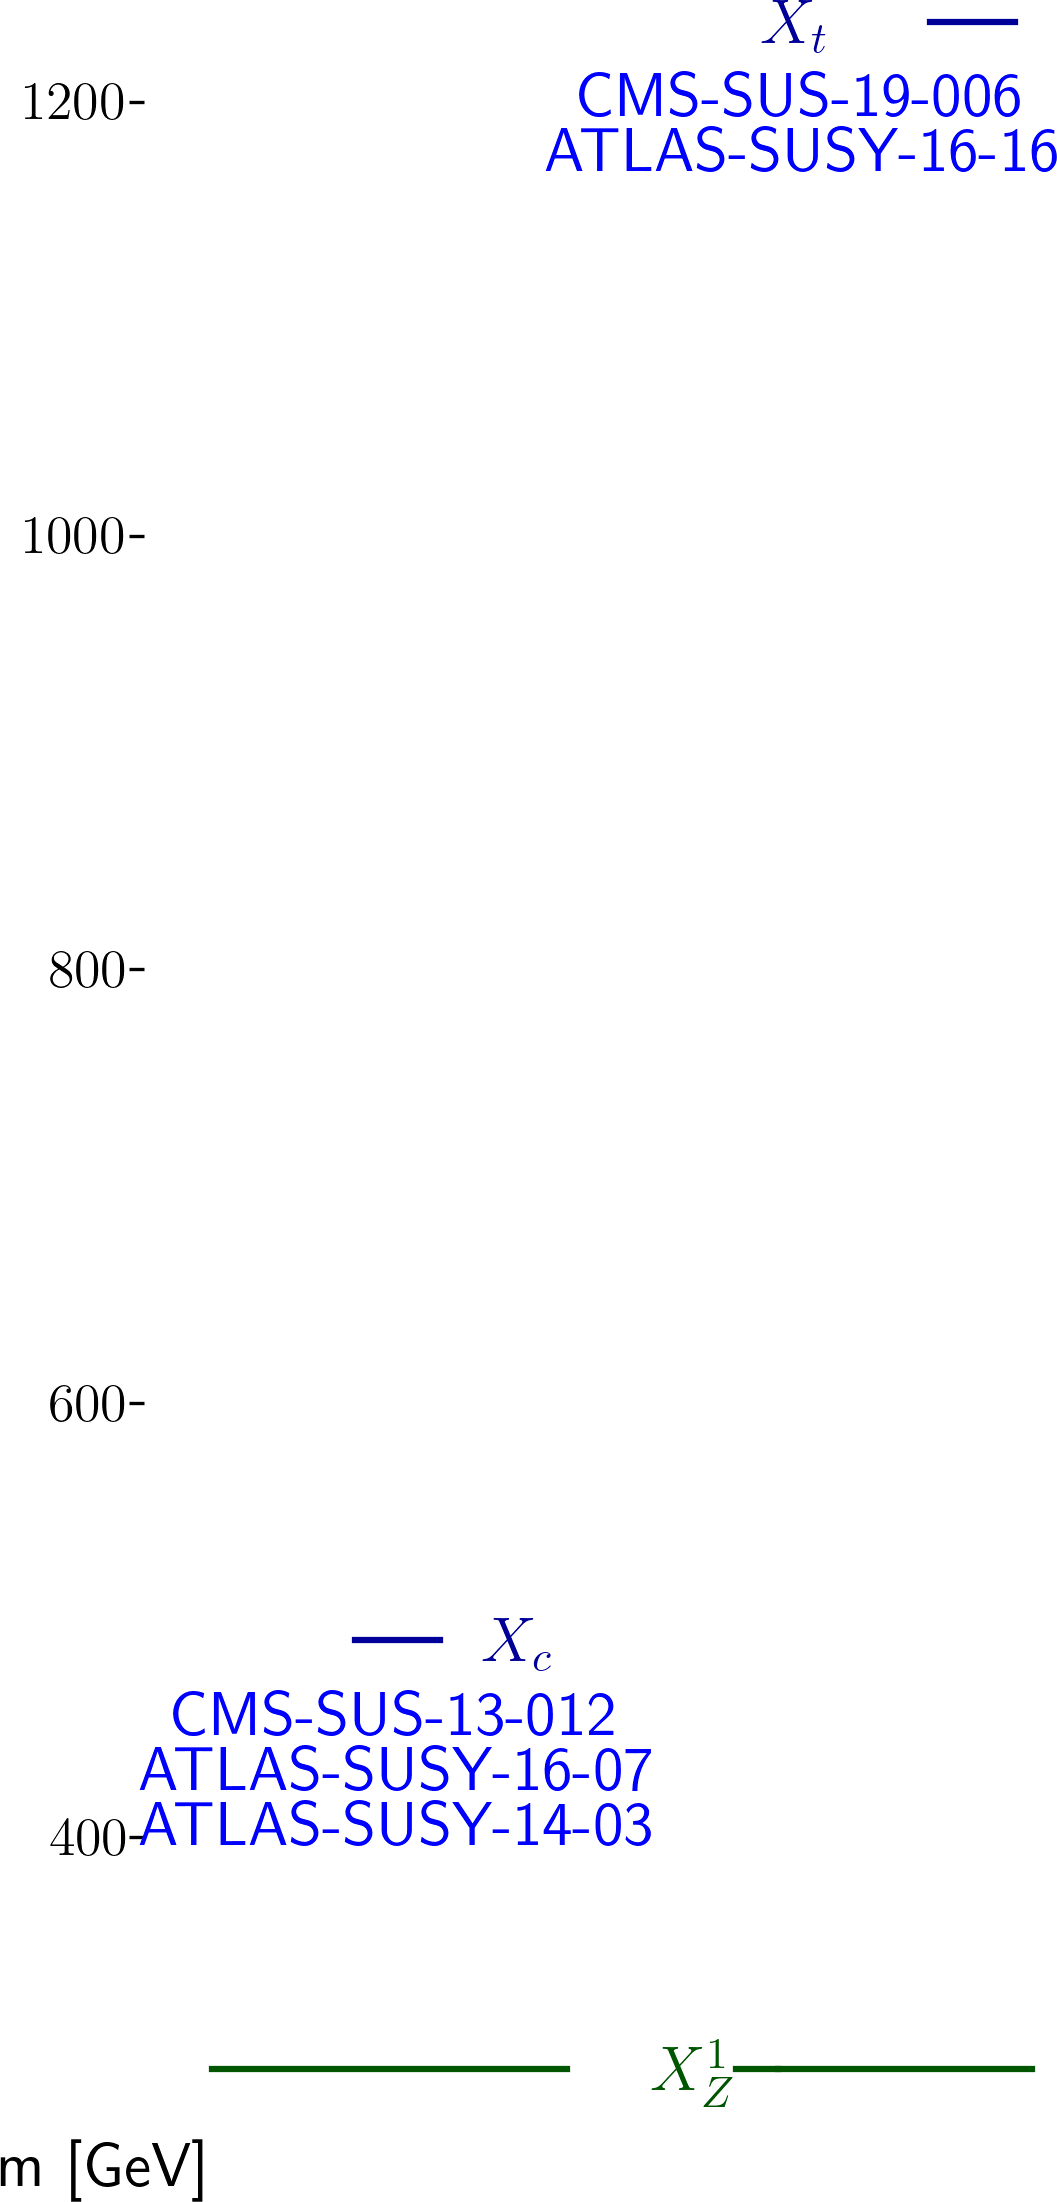
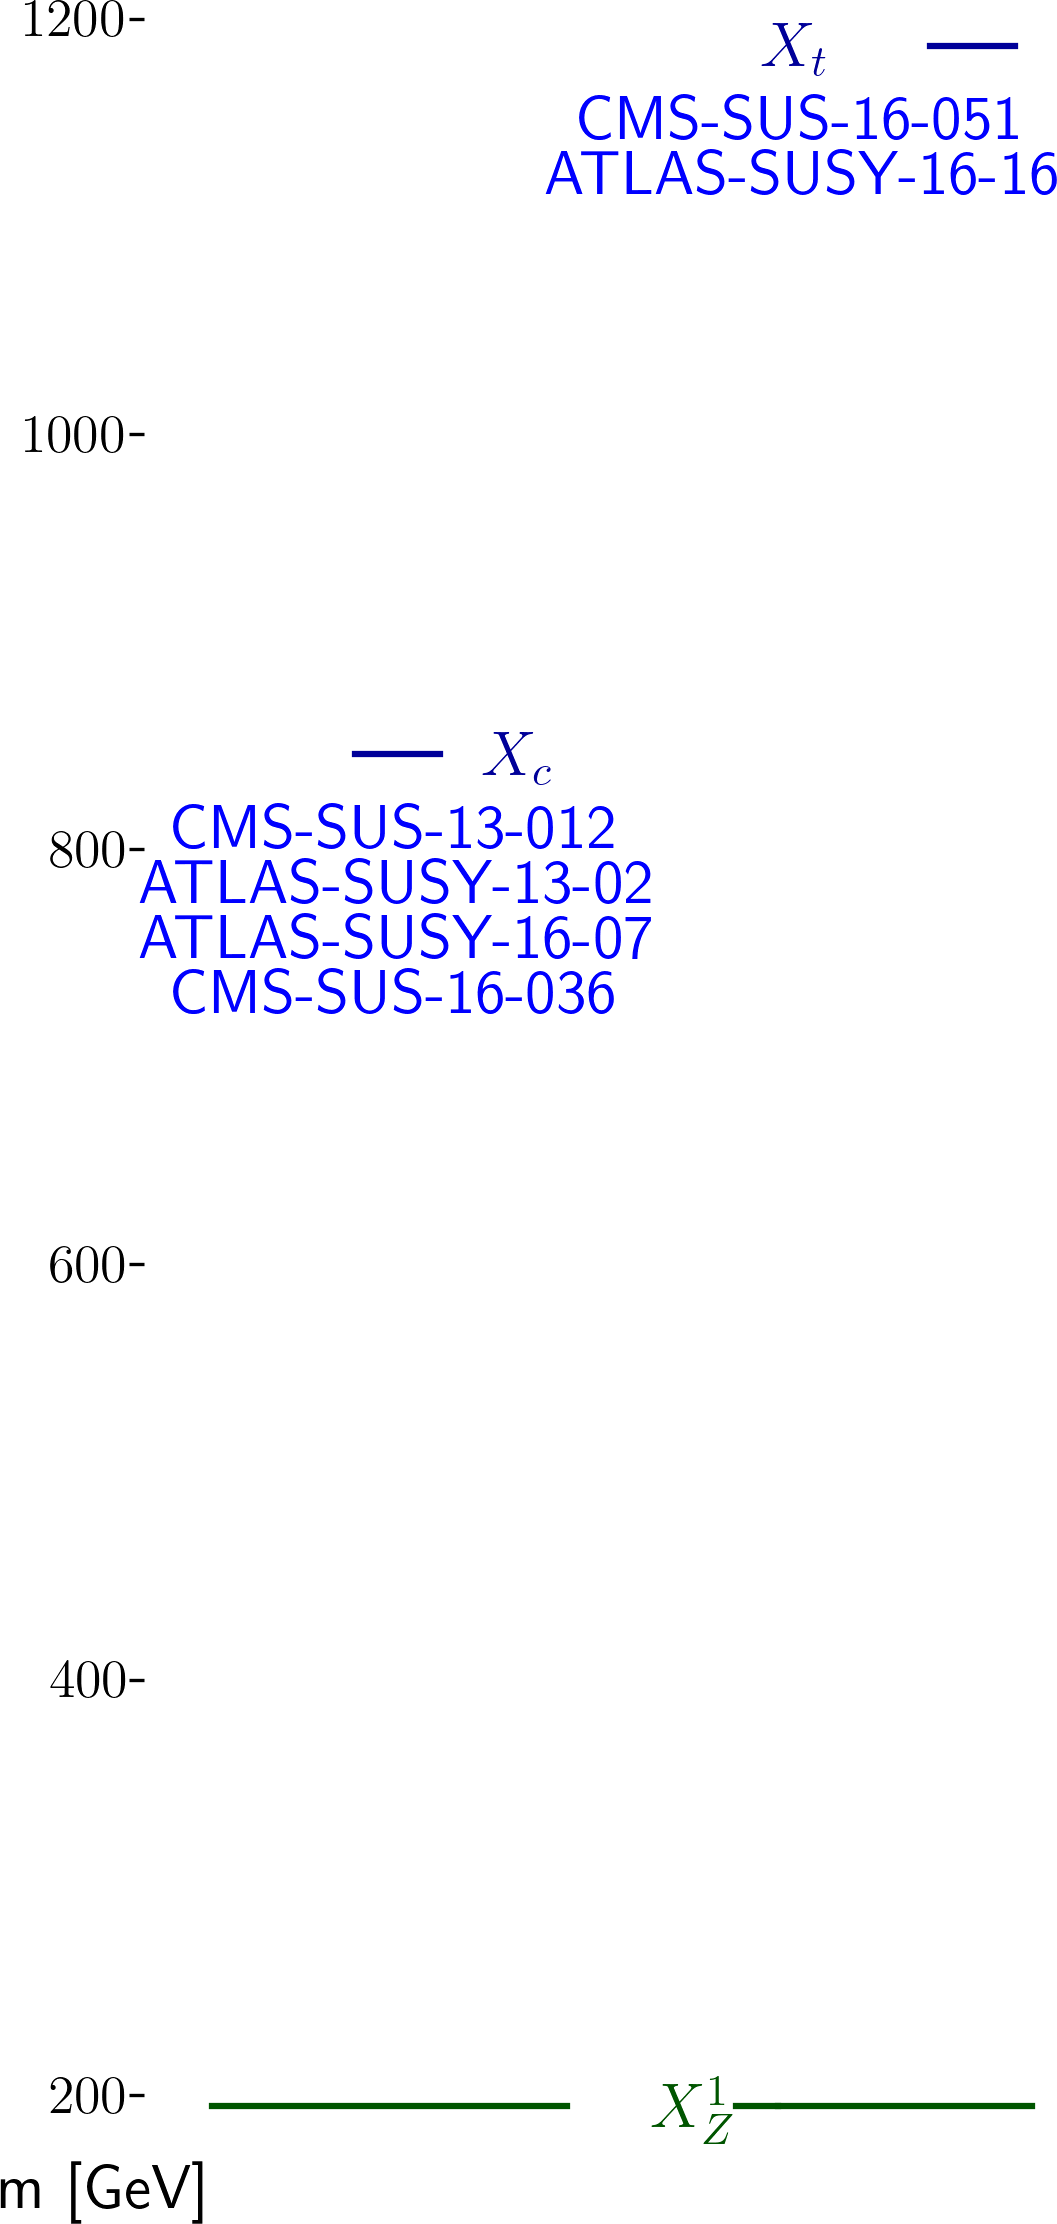
automated update by plotHiscore.py to /scratch-cbe/users/wolfgan.waltenberger/git/smodels.github.io/protomodels

diff --git a/protomodels/2020_PioneerStudy/closure_sampled2/index.html b/protomodels/2020_PioneerStudy/closure_sampled2/index.html
@@ -1,30 +1,31 @@
 <html>
 <body>
 <center>
-<table><td><h1>Current best protomodel: <i>K</i>=7.27</h1><td><img height=60px src=https://smodels.github.io/pics/banner.png></table>
+<table><td><h1>Current best protomodel: <i>K</i>=11.45</h1><td><img height=60px src=https://smodels.github.io/pics/banner.png></table>
 </center>
-<b><a href=./hiscore.slha>ProtoModel</a> <a href=./pmodel.py>(dict)</a> produced with <a href=https://smodels.github.io/docs/Validation124scaled2>database v1.2.4scaled2</a>, combination strategy <a href=./matrix_aggressive.png>aggressive</a> in walker 44 step 383.</b> <i>K</i> plots for: <a href=./M1000022.png?15050013>X<sub>Z</sub><sup>1</sup></a>, <a href=./M1000006.png?15050013>X<sub>t</sub></a>, <a href=./M1000004.png?15050013>X<sub>c</sub></a>. HPD plots for: <a href=./llhd1000006.png?15050013>X<sub>t</sub></a>, <a href=./llhd1000004.png?15050013>X<sub>c</sub></a>. SSM plots for: <a href=./ssm_-1000006_1000006.png?15050013>(x&#772;<sub>t</sub>,X<sub>t</sub>)</a><br>
+<b><a href=./hiscore.slha>ProtoModel</a> <a href=./pmodel.py>(dict)</a> produced with <a href=https://smodels.github.io/docs/Validation124scaled2>database v1.2.4scaled2</a>, combination strategy <a href=./matrix_aggressive.png>aggressive</a> in walker 45 step 942.</b> <i>K</i> plots for: <a href=./M1000022.png?15309353>X<sub>Z</sub><sup>1</sup></a>, <a href=./M1000006.png?15309353>X<sub>t</sub></a>, <a href=./M1000004.png?15309353>X<sub>c</sub></a>. HPD plots for: <a href=./llhd1000006.png?15309353>X<sub>t</sub></a>, <a href=./llhd1000004.png?15309353>X<sub>c</sub></a>. SSM plots for: <a href=./ssm_-1000006_1000006.png?15309353>(x&#772;<sub>t</sub>,X<sub>t</sub>)</a><br>
 <table width=80%>
 <tr><td>
-<br><b>17 predictions available. Highest r values are:</b><br><ul>
-<li><a href=http://cms-results.web.cern.ch/cms-results/public-results/publications/SUS-16-033/index.html>CMS-SUS-16-033</a>:T2 r=1.23, r<sub>exp</sub>=N/A<br>
-<li><a href=https://atlas.web.cern.ch/Atlas/GROUPS/PHYSICS/PAPERS/SUSY-2016-26/>ATLAS-SUSY-2016-26</a>:T2cc r=1.18, r<sub>exp</sub>=N/A<br>
-<li><a href=https://atlas.web.cern.ch/Atlas/GROUPS/PHYSICS/PAPERS/SUSY-2016-07/>ATLAS-SUSY-2016-07</a>:T2 r=1.10, r<sub>exp</sub>=N/A<br>
-<li><a href=http://cms-results.web.cern.ch/cms-results/public-results/publications/SUS-16-036/index.html>CMS-SUS-16-036</a>:T2 r=1.04, r<sub>exp</sub>=N/A<br>
-<li><a href=http://cms-results.web.cern.ch/cms-results/public-results/publications/SUS-16-033/index.html>CMS-SUS-16-033</a>:T2,T2tt r=0.81, r<sub>exp</sub>=N/A<br>
+<br><b>25 predictions available. Highest r values are:</b><br><ul>
+<li><a href=https://atlas.web.cern.ch/Atlas/GROUPS/PHYSICS/PAPERS/SUSY-2016-26/>ATLAS-SUSY-2016-26</a>:T2cc r=1.05, r<sub>exp</sub>=N/A<br>
+<li><a href=http://cms-results.web.cern.ch/cms-results/public-results/publications/SUS-19-006/index.html>CMS-SUS-19-006</a>:T2 r=0.71, r<sub>exp</sub>=N/A<br>
+<li><a href=https://atlas.web.cern.ch/Atlas/GROUPS/PHYSICS/PAPERS/SUSY-2016-07/>ATLAS-SUSY-2016-07</a>:T2 r=0.70, r<sub>exp</sub>=N/A<br>
+<li><a href=http://cms-results.web.cern.ch/cms-results/public-results/publications/SUS-16-033/index.html>CMS-SUS-16-033</a>:T2 r=0.62, r<sub>exp</sub>=N/A<br>
+<li><a href=http://cms-results.web.cern.ch/cms-results/public-results/publications/SUS-16-036/index.html>CMS-SUS-16-036</a>:T2 r=0.61, r<sub>exp</sub>=N/A<br>
 </ul>
 <td><br><b>K values without analyses: (contribution)</b><br>
 <ul>
-<li> <a href=http://cms-results.web.cern.ch/cms-results/public-results/publications/SUS-19-006/index.html>CMS-SUS-19-006</a>: 1.28 (17%)
-<li> <a href=https://twiki.cern.ch/twiki/bin/view/CMSPublic/PhysicsResultsSUS13012>CMS-SUS-13-012</a>: 1.28 (17%)
-<li> <a href=https://atlas.web.cern.ch/Atlas/GROUPS/PHYSICS/PAPERS/SUSY-2016-07/>ATLAS-SUSY-2016-07</a>: 0.14 (21%)
-<li> <a href=https://atlas.web.cern.ch/Atlas/GROUPS/PHYSICS/PAPERS/SUSY-2016-16/>ATLAS-SUSY-2016-16</a>: -0.16 (21%)
-<li> <a href=https://atlas.web.cern.ch/Atlas/GROUPS/PHYSICS/PAPERS/SUSY-2014-03/>ATLAS-SUSY-2014-03</a>: -0.75 (23%)
-<td><img width=600px src=./texdoc.png?1608050013>
-<br><font size=-1>Last updated: Tue Dec 15 17:33:33 2020</font>
+<li> <a href=https://twiki.cern.ch/twiki/bin/view/CMSPublic/PhysicsResultsSUS13012>CMS-SUS-13-012</a>: 4.00 (14%)
+<li> <a href=http://cms-results.web.cern.ch/cms-results/public-results/publications/SUS-16-036/index.html>CMS-SUS-16-036</a>: 4.00 (14%)
+<li> <a href=http://cms-results.web.cern.ch/cms-results/public-results/publications/SUS-16-051/index.html>CMS-SUS-16-051</a>: 4.00 (14%)
+<li> <a href=https://atlas.web.cern.ch/Atlas/GROUPS/PHYSICS/PAPERS/SUSY-2013-02/>ATLAS-SUSY-2013-02</a>: 3.76 (15%)
+<li> <a href=https://atlas.web.cern.ch/Atlas/GROUPS/PHYSICS/PAPERS/SUSY-2016-16/>ATLAS-SUSY-2016-16</a>: 2.64 (17%)
+<li> <a href=https://atlas.web.cern.ch/Atlas/GROUPS/PHYSICS/PAPERS/SUSY-2016-07/>ATLAS-SUSY-2016-07</a>: -1.71 (25%)
+<td><img width=600px src=./texdoc.png?1608309353>
+<br><font size=-1>Last updated: Fri Dec 18 17:35:53 2020</font>
 </table><table style="width:80%">
-<td width=45%><img height=580px src=./ruler.png?1608050013><td width=55%><img height=380px src=./decays.png?1608050013>
-<font size=-3><iframe type="text/html" height="220px" width="100%s" frameborder="0" src="./rawnumbers.html?1608050013"></iframe></font>
+<td width=45%><img height=580px src=./ruler.png?1608309353><td width=55%><img height=380px src=./decays.png?1608309353>
+<font size=-3><iframe type="text/html" height="220px" width="100%s" frameborder="0" src="./rawnumbers.html?1608309353"></iframe></font>
 </table>
 </body>
 </html>

diff --git a/protomodels/2020_PioneerStudy/closure_sampled2/rawnumbers.html b/protomodels/2020_PioneerStudy/closure_sampled2/rawnumbers.html
@@ -1,9 +1,10 @@
 <table>
 <tr><th>Analysis Name</th><th>Type</th><th>Dataset</th><th>Topos</th><th>Observed</th><th>Expected</th><th>Approx &sigma;</th><th>Particles</th><th>Signal</th>
 </tr>
-<tr><td><a href=https://atlas.web.cern.ch/Atlas/GROUPS/PHYSICS/PAPERS/SUSY-2014-03/>ATLAS-SUSY-2014-03</a></td><td>em</td> <td>mCT200</td><td>TScharm</td><td>25</td><td>16 +/- 3</td><td style="text-align:right">1.8 &sigma;</td><td style="text-align:right">X<sub>c</sub></td><td style="text-align:right">-</td></tr>
-<tr><td><a href=https://atlas.web.cern.ch/Atlas/GROUPS/PHYSICS/PAPERS/SUSY-2016-07/>ATLAS-SUSY-2016-07</a></td><td>em</td> <td>2j_Meff_1200</td><td>T2</td><td>568</td><td>526 +/- 31</td><td style="text-align:right">1.1 &sigma;</td><td style="text-align:right">X<sub>c</sub></td><td style="text-align:right">41</td></tr>
+<tr><td><a href=https://atlas.web.cern.ch/Atlas/GROUPS/PHYSICS/PAPERS/SUSY-2013-02/>ATLAS-SUSY-2013-02</a></td><td>em</td> <td>SR6jtp</td><td>T2</td><td>8</td><td>4.9 +/- 1.6</td><td style="text-align:right">1.1 &sigma;</td><td style="text-align:right">X<sub>c</sub></td><td style="text-align:right">0</td></tr>
+<tr><td><a href=https://atlas.web.cern.ch/Atlas/GROUPS/PHYSICS/PAPERS/SUSY-2016-07/>ATLAS-SUSY-2016-07</a></td><td>em</td> <td>2j_Meff_1200</td><td>T2</td><td>622</td><td>526 +/- 31</td><td style="text-align:right">2.5 &sigma;</td><td style="text-align:right">X<sub>c</sub></td><td style="text-align:right">41</td></tr>
 <tr><td><a href=https://atlas.web.cern.ch/Atlas/GROUPS/PHYSICS/PAPERS/SUSY-2016-16/>ATLAS-SUSY-2016-16</a></td><td>em</td> <td>tN_high</td><td>T2tt</td><td>7</td><td>3.8 +/- 1</td><td style="text-align:right">1.5 &sigma;</td><td style="text-align:right">X<sub>t</sub></td><td style="text-align:right">5</td></tr>
-<tr><td><a href=https://twiki.cern.ch/twiki/bin/view/CMSPublic/PhysicsResultsSUS13012>CMS-SUS-13-012</a></td><td>ul</td> <td>-</td><td>T2</td><td> 735.5 fb </td><td> 510.1 fb</td><td style="text-align:right">0.9 &sigma;</td><td style="text-align:right">X<sub>c</sub></td><td style="text-align:right">2.66 fb</td></tr>
-<tr><td><a href=http://cms-results.web.cern.ch/cms-results/public-results/publications/SUS-19-006/index.html>CMS-SUS-19-006</a></td><td>ul</td> <td>-</td><td>T2tt</td><td> 4.6 fb </td><td> 2.0 fb</td><td style="text-align:right">2.6 &sigma;</td><td style="text-align:right">X<sub>t</sub></td><td style="text-align:right">2.62 fb</td></tr>
+<tr><td><a href=https://twiki.cern.ch/twiki/bin/view/CMSPublic/PhysicsResultsSUS13012>CMS-SUS-13-012</a></td><td>ul</td> <td>-</td><td>T2</td><td> 13.5 fb </td><td> 10.9 fb</td><td style="text-align:right">0.5 &sigma;</td><td style="text-align:right">X<sub>c</sub></td><td style="text-align:right">2.66 fb</td></tr>
+<tr><td><a href=http://cms-results.web.cern.ch/cms-results/public-results/publications/SUS-16-036/index.html>CMS-SUS-16-036</a></td><td>ul</td> <td>-</td><td>T2</td><td> 42.8 fb </td><td> 18.9 fb</td><td style="text-align:right">2.5 &sigma;</td><td style="text-align:right">X<sub>c</sub></td><td style="text-align:right">23.95 fb</td></tr>
+<tr><td><a href=http://cms-results.web.cern.ch/cms-results/public-results/publications/SUS-16-051/index.html>CMS-SUS-16-051</a></td><td>ul</td> <td>-</td><td>T2tt</td><td> 7.1 fb </td><td> 4.4 fb</td><td style="text-align:right">1.2 &sigma;</td><td style="text-align:right">X<sub>t</sub></td><td style="text-align:right">2.62 fb</td></tr>
 </table>

diff --git a/protomodels/2020_PioneerStudy/closure_sampled2/pmodel.py b/protomodels/2020_PioneerStudy/closure_sampled2/pmodel.py
@@ -1,1 +1,1 @@
-{'masses': {1000022: 283.281, 1000006: 1226.792, 1000004: 480.658}, 'ssmultipliers': {(1000022, 1000022): 14.959, (1000006, 1000006): 1.299, (-1000006, 1000006): 1.537, (-1000006, -1000006): 1.466, (1000006, 1000022): 1.644, (-1000006, 1000022): 0.786, (1000004, 1000004): 0.934, (-1000004, 1000004): 0.934, (-1000004, -1000004): 0.934, (1000004, 1000022): 0.934, (-1000004, 1000022): 0.934, (1000004, 1000006): 0.934, (-1000004, 1000006): 0.934, (-1000006, 1000004): 0.934, (-1000006, -1000004): 0.934}, 'decays': {1000022: {}, 1000006: {(1000022, 6): 1.0}, 1000004: {(1000022, 4): 1.0}}, 'timestamp': 'Tue Dec 15 17:33:25 2020', 'Z': 3.29, 'K': 7.275, 'walkerid': 44, 'step': 383, 'codever': '1.0', 'dbver': '1.2.4scaled2'}
+{'masses': {1000022: 184.575, 1000004: 835.572, 1000006: 1176.777}, 'ssmultipliers': {(1000022, 1000022): 0.0, (1000004, 1000004): 1.217, (-1000004, 1000004): 1.217, (-1000004, -1000004): 1.217, (1000004, 1000022): 1.217, (-1000004, 1000022): 1.217, (1000006, 1000006): 1.444, (-1000006, 1000006): 1.444, (-1000006, -1000006): 1.444, (1000006, 1000022): 1.444, (-1000006, 1000022): 1.444, (1000004, 1000006): 1.154, (-1000006, 1000004): 1.154, (-1000004, 1000006): 1.154, (-1000006, -1000004): 1.154}, 'decays': {1000022: {}, 1000004: {(1000022, 4): 1.0}, 1000006: {(1000022, 6): 1.0}}, 'timestamp': 'Fri Dec 18 17:35:45 2020', 'Z': 3.873, 'K': 11.454, 'walkerid': 45, 'step': 942, 'codever': '1.0', 'dbver': '1.2.4scaled2'}
